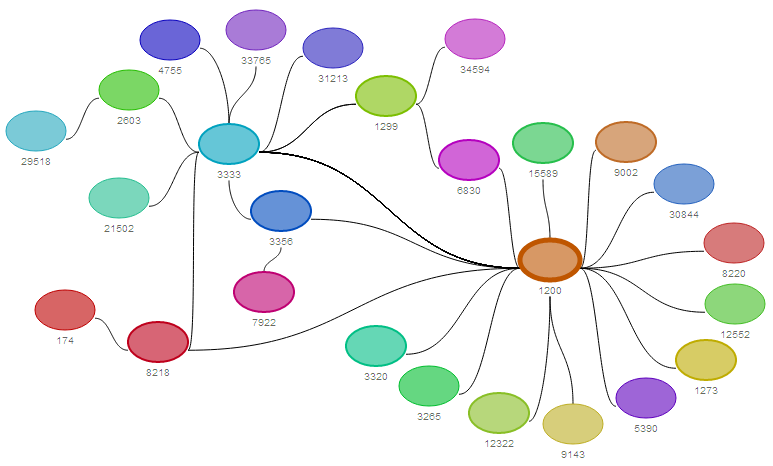
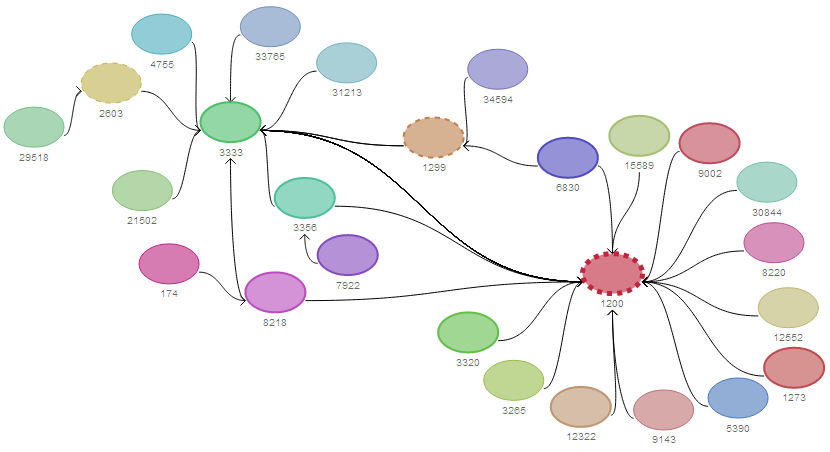
Transit-only ASes marked with dashed border

Changed region(s): [[0.0, 0.0, 1.0, 0.9912], [0.031, 0.6195, 0.3105, 0.8053], [0.4657, 0.4027, 0.4968, 0.4336]]

diff --git a/htdocs/js/ripeatlastracepath.js b/htdocs/js/ripeatlastracepath.js
@@ -24,7 +24,15 @@
 				tipText = txt;
 
 				if( node.ProbesCount > 0 ) {
-					tipText += ' - ' + node.ProbesCount + ' probes';
+					tipText += ' - ';
+					if( node.ProbesCount == node.TransitOnly_ProbesCount ) {
+						tipText += node.TransitOnly_ProbesCount + ' probes, transit only';
+					} else {
+						tipText += node.ProbesCount + ' probes';
+						if( node.TransitOnly_ProbesCount > 0 ) {
+							tipText += ' (' + node.TransitOnly_ProbesCount + ' transit only)';
+						}
+					}
 				}
 
 				node.TipText = tipText;
@@ -68,10 +76,12 @@
 			for( n in data.Nodes ) {
 				g.addNode( data.Nodes[n].ASN );
 				g.nodes[ data.Nodes[n].ASN ].ProbesCount = 0;
+				g.nodes[ data.Nodes[n].ASN ].TransitOnly_ProbesCount = 0;
 			}
 			for( e in data.Edges ) {
-				g.addEdge( data.Edges[e].A, data.Edges[e].B );
+				g.addEdge( data.Edges[e].A, data.Edges[e].B, { directed: true } );
 				g.nodes[ data.Edges[e].A ].ProbesCount += data.Edges[e].ProbesCount;
+				g.nodes[ data.Edges[e].B ].TransitOnly_ProbesCount += data.Edges[e].ProbesCount;
 			}
 
 			var layouter = new Graph.Layout.Spring(g);
@@ -138,6 +148,10 @@
 						strokeWidth = Math.floor( g.nodes[n].ProbesCount / strokeStep ) + 2;
 					}
 					$('ellipse#' + n).css('strokeWidth', strokeWidth + 'px');
+
+					if( g.nodes[n].ProbesCount == g.nodes[n].TransitOnly_ProbesCount ) {
+						$('ellipse#' + n).css('stroke-dasharray','5,5');
+					}
 				}
 			}
 
